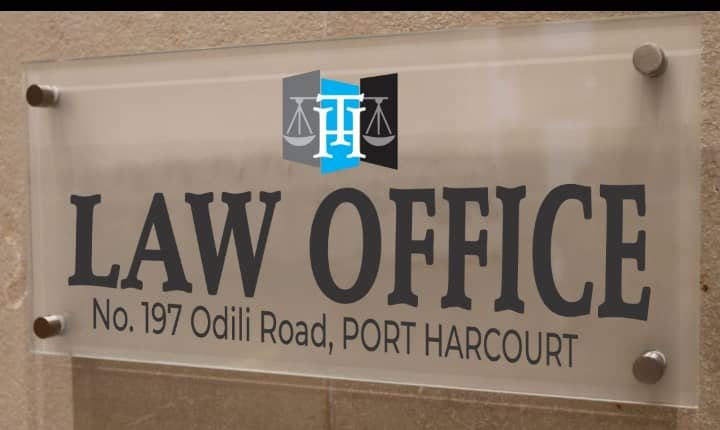
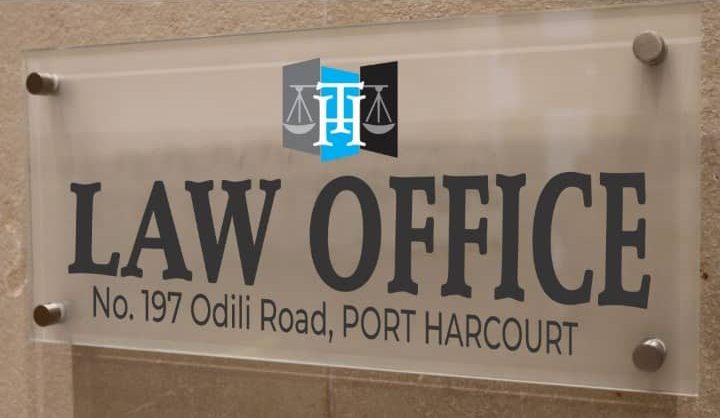
Home: describe the four main practice areas, call year on partner cards, footer disclaimer, crop office photo
Claude-Session: https://claude.ai/code/session_01GFjAbwviVeKCpLjUERA2Ef

diff --git a/pages/index.js b/pages/index.js
@@ -7,6 +7,9 @@ import { cases, firm, fullAddress, partners, practiceAreas, testimonials } from 
 
 const featured = cases.filter((c) => c.featured);
 const mainPhone = firm.phones[0];
+const coreAreas = practiceAreas.slice(0, 4);
+const otherAreas = practiceAreas.slice(4);
+const calledYear = (p) => p.credentials.find((c) => c.startsWith('Called to the Bar'));
 
 export default function Home() {
   return (
@@ -66,11 +69,23 @@ export default function Home() {
           <Link href="/practice-areas" className="link-arrow">Details <ArrowRight size={16} strokeWidth={1.5} aria-hidden="true" /></Link>
         </div>
         <div className="wrap">
-          <ul className="areas-compact">
-            {practiceAreas.map((a) => (
-              <li key={a.slug}><Link href={`/practice-areas#${a.slug}`}>{a.title}</Link></li>
+          <div className="areas-core">
+            {coreAreas.map((a) => (
+              <Link key={a.slug} href={`/practice-areas#${a.slug}`} className="area-core">
+                <h3>{a.title}</h3>
+                <p>{a.text}</p>
+              </Link>
             ))}
-          </ul>
+          </div>
+          <p className="areas-more">
+            Also{' '}
+            {otherAreas.map((a, i) => (
+              <span key={a.slug}>
+                <Link href={`/practice-areas#${a.slug}`}>{a.title.toLowerCase()}</Link>
+                {i < otherAreas.length - 1 ? ', ' : ''}
+              </span>
+            ))}
+          </p>
         </div>
       </section>
 
@@ -87,7 +102,7 @@ export default function Home() {
             <Link key={p.slug} href={`/team#${p.slug}`} className="partner">
               <Image src={p.image} alt={p.name} width={720} height={1080} sizes="(max-width: 700px) 100vw, 33vw" />
               <span className="partner-name">{p.name}</span>
-              <span className="partner-role">{p.role}</span>
+              <span className="partner-role">{p.role}{calledYear(p) ? ` · ${calledYear(p)}` : ''}</span>
             </Link>
           ))}
         </div>
@@ -113,7 +128,7 @@ export default function Home() {
             src="/office-sign.jpg"
             alt="Law office sign at No. 197 Odili Road, Port Harcourt"
             width={720}
-            height={430}
+            height={418}
             sizes="(max-width: 900px) 100vw, 50vw"
           />
           <div>

diff --git a/styles/globals.css b/styles/globals.css
@@ -164,6 +164,14 @@ button, input, select, textarea { font: inherit; color: inherit; }
 .filter-count { font-variant-numeric: tabular-nums; opacity: 0.7; }
 
 /* Practice areas */
+.areas-core { display: grid; grid-template-columns: repeat(2, minmax(0, 1fr)); column-gap: 48px; border-top: 1px solid var(--line-strong); }
+.area-core { display: block; padding: 24px 0; border-bottom: 1px solid var(--line-strong); }
+.area-core h3 { font: 400 24px/1.3 var(--serif); transition: color 160ms var(--ease); }
+.area-core p { color: var(--text-2); margin-top: 8px; max-width: 34rem; }
+.area-core:hover h3 { color: var(--accent-ink); }
+.areas-more { margin-top: 24px; color: var(--muted); max-width: 52rem; line-height: 1.7; }
+.areas-more a { color: var(--text-2); text-decoration: underline; text-decoration-color: var(--line-strong); text-underline-offset: 4px; }
+.areas-more a:hover { color: var(--accent-ink); }
 .areas-compact {
   list-style: none; margin: 0; padding: 0;
   display: grid; grid-template-columns: repeat(2, minmax(0, 1fr)); column-gap: 48px;
@@ -306,7 +314,15 @@ button, input, select, textarea { font: inherit; color: inherit; }
   .h2 { font-size: 28px; }
   .lede { font-size: 17px; }
   .split-head { flex-direction: column; align-items: flex-start; gap: 12px; }
-  .areas-compact { grid-template-columns: 1fr; }
+  .areas-core { display: grid; grid-template-columns: repeat(2, minmax(0, 1fr)); column-gap: 48px; border-top: 1px solid var(--line-strong); }
+.area-core { display: block; padding: 24px 0; border-bottom: 1px solid var(--line-strong); }
+.area-core h3 { font: 400 24px/1.3 var(--serif); transition: color 160ms var(--ease); }
+.area-core p { color: var(--text-2); margin-top: 8px; max-width: 34rem; }
+.area-core:hover h3 { color: var(--accent-ink); }
+.areas-more { margin-top: 24px; color: var(--muted); max-width: 52rem; line-height: 1.7; }
+.areas-more a { color: var(--text-2); text-decoration: underline; text-decoration-color: var(--line-strong); text-underline-offset: 4px; }
+.areas-more a:hover { color: var(--accent-ink); }
+.areas-compact { grid-template-columns: 1fr; }
   .partner-grid { grid-template-columns: 1fr; }
   .partner img { aspect-ratio: 1 / 1; }
   .profile { grid-template-columns: 1fr; gap: 20px; }

diff --git a/components/Layout.js b/components/Layout.js
@@ -89,9 +89,12 @@ function Footer() {
           </ul>
         </div>
       </div>
-      <div className="wrap footer-base">
-        <span>© {new Date().getFullYear()} {firm.name}</span>
-        <a href={`mailto:${firm.email}`}>{firm.email}</a>
+      <div className="wrap">
+        <div className="footer-base">
+          <span>© {new Date().getFullYear()} {firm.name}</span>
+          <span>The information on this site is general and is not legal advice</span>
+          <a href={`mailto:${firm.email}`}>{firm.email}</a>
+        </div>
       </div>
     </footer>
   );

diff --git a/pages/about.js b/pages/about.js
@@ -26,7 +26,7 @@ export default function About() {
             src="/office-sign.jpg"
             alt="Law office sign at No. 197 Odili Road, Port Harcourt"
             width={720}
-            height={430}
+            height={418}
             sizes="(max-width: 900px) 100vw, 50vw"
           />
           <dl className="mission">
